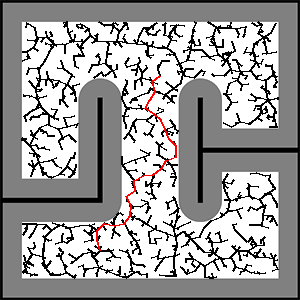
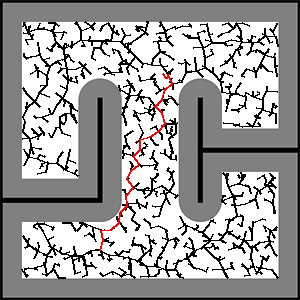
localizes itself

Changed region(s): [[0.06, 0.06, 0.93, 0.93]]

diff --git a/finalproject.py b/finalproject.py
@@ -125,7 +125,7 @@ class Run:
 
     def goto(self, waypoints):
         index = 0
-        base_speed = 0
+        base_speed = 20
 
         goal_x = waypoints[index][0]
         goal_y = waypoints[index][1]
@@ -284,7 +284,7 @@ class Run:
         turns_since_wall = 0
         turn_angle = np.pi / 15.
         while True:
-            if (np.array(self.pf.variance()) < np.array([0.005, 0.005, np.pi * 2 / 3])).any():
+            if (np.array(self.pf.variance()) < np.array([0.005, 0.005, np.pi * .005])).any():
                 self.localized_x, self.localized_y, self.localized_theta = self.pf.mean()
                 break
             print('actual ', self.odometry.x, self.odometry.y, self.odometry.theta)
@@ -311,14 +311,14 @@ class Run:
             self.pf.draw(self.virtual_create)
             self.time.sleep(0.01)
 
-        new_x = int((self.localized_x) * 100)
-        new_y = int(300 - (self.localized_y * 100))
-        print('currpos ', new_x, new_y)
+        self.odometry.x = self.localized_x
+        self.odometry.y = self.localized_y
+        self.odometry.theta = self.localized_theta
 
 
-        self.goto([[1.654,2.480]])
+        self.goto([[1.654,2.44]])
         self.go_to_angle(0)
-        self.time.sleep(5)
+        self.time.sleep(1)
 
         self.pickUpCup()
         self.placeCup(2)
